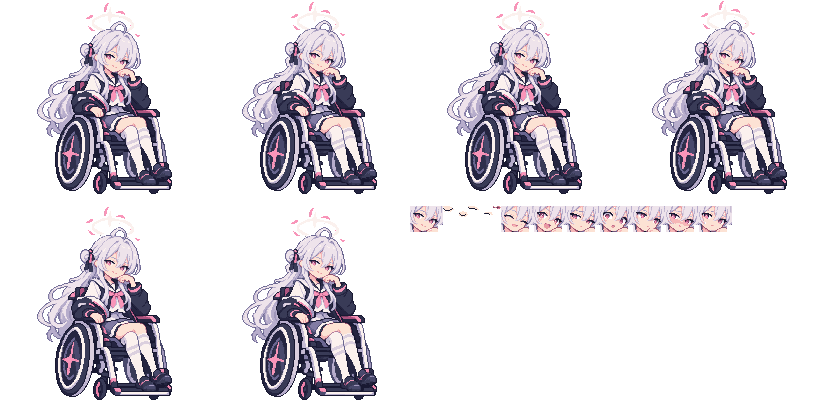
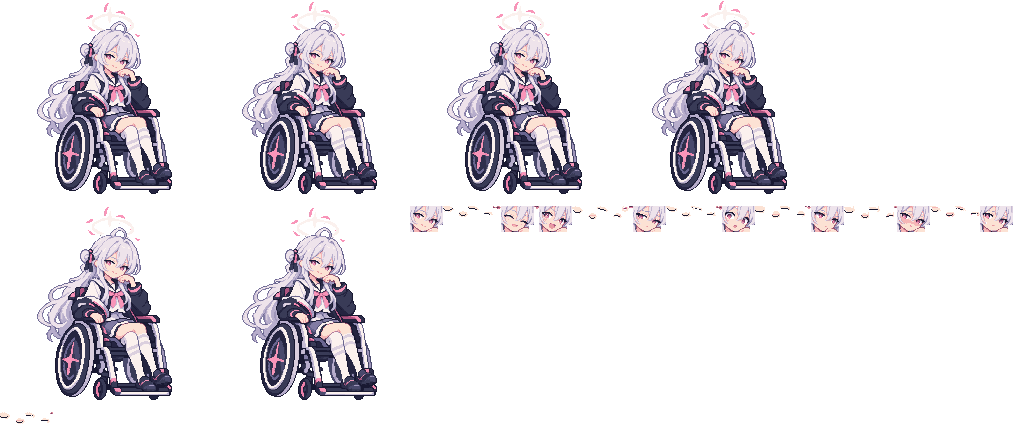
feat(windows): blink and talk variants for the other seven moods
Every mood now talks, and every mood but happy (eyes already closed in a
smile) blinks. tools/mood-variants.lua derives each mood's half and closed
eyes from its own lash line with the rules of the owner-approved neutral
ones: a single straight lowered lid, an arc on the lower lid, no long outer
tail, skin taken from the same row so the embarrassed blush runs through.
Mouths are small templates on each mood's mouth; excited closes its open
mouth when talking, happy and surprised open theirs further.

Tests: the shipped manifest gives every mood talk art and every mood but
happy blink art; UI checks follow happy now talking; a synthetic mood
covers a face without variants.

diff --git a/clients/windows/Himari.Companion.ContractTests/Program.cs b/clients/windows/Himari.Companion.ContractTests/Program.cs
@@ -359,6 +359,10 @@ var shipped = CharacterManifest.Parse(File.ReadAllText(Path.Combine(AppContext.B
 Check(shipped.Width == 205 && shipped.Height == 206 && new[] { "neutral", "happy", "excited", "sad", "surprised", "thinking", "embarrassed", "worried" }.All(shipped.Faces.ContainsKey),
     "shipped manifest covers the server's eight moods on the 205x206 canvas");
 Check(shipped.Faces["neutral"].Eyes!.Keys.Order().SequenceEqual(["closed", "half"]) && shipped.Faces["neutral"].Mouth!.Keys.Order().SequenceEqual(["small", "wide"]), "neutral has blink and talk variants");
+Check(shipped.Faces.All(f => f.Value.Mouth?.Keys.Order().SequenceEqual(["small", "wide"]) == true)
+    && shipped.Faces.Where(f => f.Key != "happy").All(f => f.Value.Eyes?.Keys.Order().SequenceEqual(["closed", "half"]) == true)
+    && shipped.Faces["happy"].Eyes is null,
+    "every mood talks; every mood but happy (eyes already closed in a smile) blinks");
 foreach (var bad in new[] { "{\"version\":2,\"canvas\":[1,1],\"sheet\":\"s\",\"face\":{\"origin\":[0,0],\"size\":[1,1]},\"clips\":{},\"faces\":{}}",
                             "{\"version\":1,\"canvas\":[1,1],\"sheet\":\"s\",\"face\":{\"origin\":[0,0],\"size\":[1,1]},\"clips\":{},\"faces\":{\"neutral\":{\"src\":[0,0,1,1]}}}",
                             "{\"version\":1,\"canvas\":[1,1],\"sheet\":\"s\",\"face\":{\"origin\":[0,0],\"size\":[0,1]},\"clips\":{\"idle\":{\"loop\":true,\"frames\":[{\"src\":[0,0,1,1],\"ms\":1,\"face\":[0,0]}]}},\"faces\":{\"neutral\":{\"src\":[0,0,1,1]}}}",
@@ -369,15 +373,18 @@ foreach (var bad in new[] { "{\"version\":2,\"canvas\":[1,1],\"sheet\":\"s\",\"f
     try { CharacterManifest.Parse(bad); Check(false, "invalid character manifest is rejected"); }
     catch (InvalidDataException) { }
 }
-var shippedRects = shipped.Clips.Values.SelectMany(c => c.Frames.Select(f => f.Src)).Concat(shipped.Faces.Values.Select(f => f.Src)).ToList();
+var shippedRects = shipped.Clips.Values.SelectMany(c => c.Frames.Select(f => f.Src)).Concat(shipped.Faces.Values.Select(f => f.Src))
+    .Concat(shipped.Faces.Values.SelectMany(f => (f.Eyes ?? []).Concat(f.Mouth ?? []).Select(v => v.Value.Src))).ToList();
 int sheetRight = shippedRects.Max(r => r[0] + r[2]), sheetBottom = shippedRects.Max(r => r[1] + r[3]);
 shipped.CheckSheet(sheetRight, sheetBottom);
 try { shipped.CheckSheet(sheetRight, sheetBottom - 1); Check(false, "a src outside the sheet is rejected"); }
 catch (InvalidDataException) { }
 static TimeSpan Ms(double value) => TimeSpan.FromMilliseconds(value);
 var frame = new ClipFrame([0, 0, 1, 1], 100, [0, 0]);
+// "plain" is a mood face without blink or talk art.
 var animationManifest = shipped with
 {
+    Faces = new(shipped.Faces) { ["plain"] = new CharacterFace([0, 0, 1, 1]) },
     Clips = new()
     {
         ["idle"] = new(true, [frame, frame with { Src = [1, 0, 1, 1], Ms = 300 }]),
@@ -428,7 +435,7 @@ Check(animator.Pose(Ms(1010)).Mouth == "small" && animator.Pose(Ms(1140)).Mouth 
     "talking cycles small, wide, small, closed in 130 ms steps");
 animator.SetTalking(false, Ms(1150));
 Check(animator.Pose(Ms(1200)).Mouth == "wide" && animator.Pose(Ms(1260)).Mouth is null, "when talking stops the current step finishes, then the mouth closes");
-animator.Mood = "happy";
+animator.Mood = "plain";
 animator.SetTalking(true, Ms(1300));
 Check(animator.Pose(Ms(1310)).Mouth is null && animator.Pose(Ms(1310)).Eyes is null, "a mood without the variant keeps its own face");
 animator.SetTalking(false, Ms(1310)); animator.Mood = "neutral";

diff --git a/clients/windows/Himari.Companion.UiTests/Program.cs b/clients/windows/Himari.Companion.UiTests/Program.cs
@@ -93,15 +93,15 @@ internal static class Program
         var characterImage = (Image)timeline.FindName("Character");
         Check(characterImage.Source == renderer.Bitmap && renderer.Bitmap.PixelWidth == 205 && renderer.Bitmap.PixelHeight == 206, "the character image shows the composed 205x206 bitmap");
         Timeline("SetMood", "happy"); Timeline("SetTalking", true);
-        Check(renderer.Shown is { Mood: "happy", Mouth: null }, "mood reaches the character; happy has no talk art, so its face stays");
+        Check(renderer.Shown is { Mood: "happy", Mouth: "small" }, "mood reaches the character and every mood talks");
         Timeline("SetMood", "neutral"); Timeline("SetTalking", true);
         Check(renderer.Shown is { Mood: "neutral", Mouth: "small" }, "talking starts the mouth at once");
         Timeline("SetTalking", false);
         var inspect = (SettingsWindow)typeof(MainWindow).GetField("settings", BindingFlags.NonPublic | BindingFlags.Instance)!.GetValue(timeline)!;
         inspect.EyesSelector.SelectedIndex = 3; inspect.MouthSelector.SelectedIndex = 3;
-        Check(renderer.Shown is { Eyes: "closed", Mouth: "wide" } && inspect.PoseText.Text.Contains("closed"), "the animation inspect holds eyes and mouth on a chosen variant");
+        Check(renderer.Shown is { Eyes: "closed", Mouth: "wide" } && inspect.PoseText.Text.Contains("closed"), "the animation preview holds eyes and mouth on a chosen variant");
         Timeline("SetMood", "happy");
-        Check(renderer.Shown is { Mood: "happy", Eyes: null, Mouth: null } && inspect.PoseText.Text.Contains("그림이 없어"), "the inspect says when a mood lacks the chosen variant");
+        Check(renderer.Shown is { Mood: "happy", Eyes: null, Mouth: "wide" } && inspect.PoseText.Text.Contains("그림이 없어"), "the preview says when a mood lacks the chosen variant (happy has no blink art)");
         Timeline("SetMood", "neutral");
         inspect.PausePreview.IsChecked = true;
         var paused = renderer.Shown!;

diff --git a/clients/windows/animation-preview/pixel/clean/README.md b/clients/windows/animation-preview/pixel/clean/README.md
@@ -90,7 +90,7 @@ aseprite -b neutral-face.aseprite --tag blink --scale 3 --save-as blink-x3.gif
 aseprite -b --script-param in=happy.png --script-param neutral=neutral.png --script-param sx=6.02 --script-param ox=4.00 --script-param sy=6.255 --script-param oy=0.70 --script-param out=moods/happy.png --script-param log=happy.txt --script mood.lua
 ```
 
-깜빡임과 말하기는 아직 neutral에만 있다. 다른 표정에서 쓰려면 그 표정의 눈과 입 영역에 같은 방식으로 프레임을 그려야 한다.
+깜빡임과 말하기 변형은 이제 `faces.aseprite`에 표정마다 있다(아래 "다른 표정의 눈·입").
 
 ## 앱 자산: 원본과 내보내기
 
@@ -99,12 +99,12 @@ aseprite -b --script-param in=happy.png --script-param neutral=neutral.png --scr
 | 파일 | 내용 |
 |---|---|
 | `body.aseprite` | 몸 동작. 태그 하나가 동작 하나(지금은 `idle` 6프레임). 숨긴 레이어 `@face`의 1×1 점이 그 프레임에서 얼굴을 놓을 자리다(쉬는 자세 (101, 47), 숨쉬기 프레임은 1px 위). |
-| `faces.aseprite` | 얼굴 33×26. 표정마다 프레임 하나, 태그 이름이 표정 이름. 그룹 `eyes/half`, `eyes/closed`, `mouth/small`, `mouth/wide`에 기본 얼굴과 다른 픽셀만 그린다(지금은 neutral 프레임에만 있음). 숨긴 `@body`는 맞춰 볼 몸 그림이다. 턱의 손(129 이상, 66 이상)은 몸 쪽이라 비워 둔다. |
+| `faces.aseprite` | 얼굴 33×26. 표정마다 프레임 하나, 태그 이름이 표정 이름. 그룹 `eyes/half`, `eyes/closed`, `mouth/small`, `mouth/wide`에 기본 얼굴과 다른 픽셀만 그린다(happy는 눈 변형이 없다). 숨긴 `@body`는 맞춰 볼 몸 그림이다. 턱의 손(129 이상, 66 이상)은 몸 쪽이라 비워 둔다. |
 
 - **처음 만들기**: `../tools/sources.lua`가 `idle-test.aseprite`, `neutral-face.aseprite`, `moods/`에서 두 원본을 한 번 만들었다. 그대로 다시 돌리면 고친 `faces.aseprite`를 덮어쓴다. 숨쉬기를 바꿀 때는 `idle-test.lua`를 고쳐 돌린 뒤 `--script-param only=body`로 `body.aseprite`만 다시 만든다.
 - **neutral 눈·입 다시 그림**(소유자 검토 2026-10-31): `../tools/neutral-variants.lua`가 `faces.aseprite`의 neutral 변형을 고쳤다. 반쯤 감은 눈은 뜬 눈의 속눈썹처럼 오른쪽으로 내려가고, 감은 눈은 선 위의 갈색 채움을 없앴다. 두 경우 모두 바깥쪽 속눈썹 끝을 눈마다 2px 줄였다. 말하는 입은 다문 입 선의 두 끝 (112,65), (116,67)을 그대로 두고 가운데가 벌어진다. 그래서 `frames/`의 낱장과는 이제 다르다.
 - **내보내기**: 원본을 고친 뒤 `../tools/export.lua`를 돌린다(`pixel/`에서 실행).
-  - 같은 그림 조각은 시트에 한 번만 넣는다(지금 18조각, 820×412).
+  - 같은 그림 조각은 시트에 한 번만 넣는다(지금 40조각, 1013×424).
   - UI 테스트가 비교할 기준 그림 3장(`idle-1-neutral`, `idle-2-happy`, `idle-1-neutral-closed-wide`)도 함께 쓴다.
   - 다음 중 하나라도 어기면 아무것도 쓰지 않고 실패한다: 색 인덱스 모드와 `himari-32.gpl` 팔레트, 모든 몸 프레임의 `@face` 점, 모든 동작의 첫 프레임과 단발 동작의 마지막 프레임 = idle 첫 프레임, 표정 8종.
 
@@ -113,3 +113,23 @@ aseprite -b --script-param body=clean/body.aseprite --script-param faces=clean/f
 ```
 
 결과물(시트, JSON, 기준 그림)은 저장소에 넣는다. 빌드와 CI에는 Aseprite가 없다.
+
+## 다른 표정의 눈·입
+
+`../tools/mood-variants.lua`가 `faces.aseprite`의 표정 7종에 눈·입 변형을 그렸다. `mood-variants.png`가 결과다(줄: neutral, happy, excited, sad, surprised, thinking, embarrassed, worried / 칸: 기본, 반쯤 감음, 감음, 작은 입, 큰 입. 어두운 칸은 그 변형이 없음). neutral은 소유자가 확인한 손 그림(`neutral-variants.lua`)이고, 이 스크립트는 그 모양을 규칙으로 옮긴 것이다.
+
+- **눈**: 표정마다 속눈썹 모양이 달라서 그 표정의 눈에서 직접 계산한다. 눈 칸(왼눈 103–114 × 52–59, 오른눈 119–129 × 57–64)에서 속눈썹 색이 있는 열을 눈으로 본다.
+  - 반쯤 감음: 눈 윗선에 맞춘 직선을 눈 높이의 절반만큼 내려 한 줄 눈꺼풀로 그리고, 그 위는 피부로 덮는다. 두 줄 넘게 두꺼운 속눈썹의 남는 줄과 바깥 끝 아래 테두리도 지운다.
+  - 감음: 눈의 보통 아랫선 위에 호를 그리고 양 끝을 한 줄 올린다.
+  - 둘 다 바깥 끝을 한 칸 짧게 해서 꼬리가 길어 보이지 않게 한다(neutral 검토와 같은 기준).
+  - 덮는 피부색은 같은 줄의 눈 바깥에서 가져온다. 그래서 embarrassed의 볼 홍조 띠는 감은 눈 위로도 이어진다.
+  - happy는 이미 눈을 감고 웃는 얼굴이라 눈 변형이 없다.
+- **입**: 표정마다 입 위치에 작은 틀을 놓는다. 작은 입은 3×2, 큰 입은 3×4다.
+  - happy와 surprised는 원래 입 안을 어둡게 하거나 한 줄 더 연다.
+  - excited는 원래 입이 크게 벌어져 있다. 그래서 작은 입은 입을 줄이고, 큰 입은 원래 입에 입안을 보인다.
+
+```
+aseprite -b --script-param faces=clean/faces.aseprite --script tools/mood-variants.lua
+```
+
+다시 돌리면 7종의 변형을 새로 그린다(neutral은 건드리지 않는다). 특정 표정만 손으로 고쳤다면 그 표정은 `--script-param only=<표정>`으로 따로 다루거나 다시 돌리지 않는다.

diff --git a/docs/companion-animation-v0.1.md b/docs/companion-animation-v0.1.md
@@ -69,7 +69,7 @@
   - 눈·입 변형은 그 표정 얼굴 위에 겹치는 작은 그림이다. 좌표는 얼굴 영역 기준이다.
 - **표정마다 가진 변형만 쓴다.** 없는 변형을 요청하면 그 표정의 기본 얼굴을 그대로 둔다.
   - 예: happy는 이미 윙크라서 `closed`가 없어도 된다.
-  - 지금은 neutral만 눈·입 변형을 가진다. 다른 표정은 그림을 그리는 대로 늘어난다.
+  - 표정 8종 모두 입 변형을 가진다. 눈 변형은 happy를 뺀 7종이 가진다(happy는 이미 눈을 감고 웃는 얼굴이라 깜빡이지 않는다). neutral은 손으로, 나머지는 `tools/mood-variants.lua`가 그 표정의 속눈썹 선에서 만들었다.
 
 ### 3.4 `character.json`
 
@@ -88,12 +88,13 @@
     "neutral": { "src": [410, 206, 33, 26],
                  "eyes": { "closed": { "src": [443, 206, 25, 11], "at": [3, 7] }, "half": { "src": [468, 206, 25, 9], "at": [3, 7] } },
                  "mouth": { "small": { "src": [493, 206, 3, 2], "at": [12, 18] }, "wide": { "src": [496, 206, 5, 3], "at": [11, 18] } } },
-    "happy": { "src": [501, 206, 33, 26] }
+    "happy": { "src": [501, 206, 33, 26],
+               "mouth": { "small": { "src": [534, 206, 2, 1], "at": [12, 19] }, "wide": { "src": [536, 206, 3, 3], "at": [12, 19] } } }
   }
 }
 ```
 
-- 좌표는 모두 도트 단위, `src`는 시트 안의 사각형이다. 위 값은 실제 `Assets/character.json`에서 줄인 것이다(시트 820×412, 그림 18조각).
+- 좌표는 모두 도트 단위, `src`는 시트 안의 사각형이다. 위 값은 실제 `Assets/character.json`에서 줄인 것이다(시트 1013×424, 그림 40조각).
 - 몸 프레임에 `"eyes"`, `"mouth"`를 적으면 그 프레임의 눈·입을 강제한다(§5.2). 앱은 읽지만, 아직 그런 프레임이 없어 `export.lua`는 쓰지 않는다. 졸기(PR B)에서 더한다.
 - 앱은 `version`이 다르면 시작할 때 실패한다. 자산과 코드가 같은 커밋에서 오므로 실제로 어긋날 일은 없고, 테스트로 지킨다.
 
